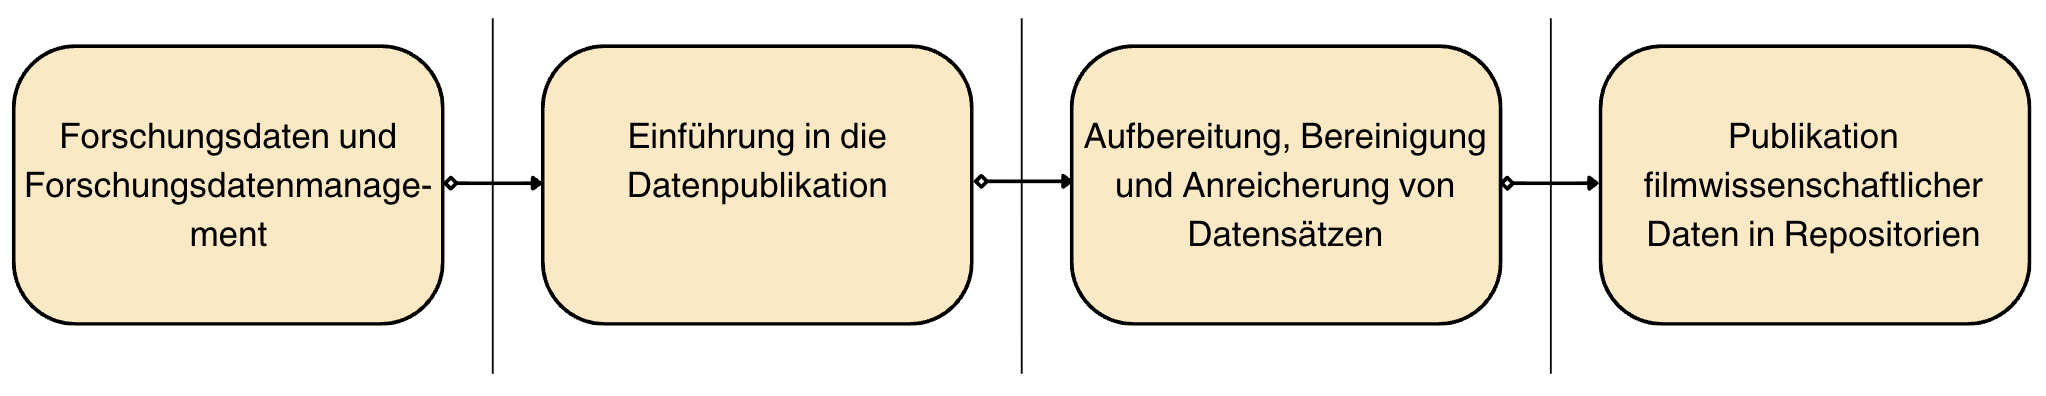
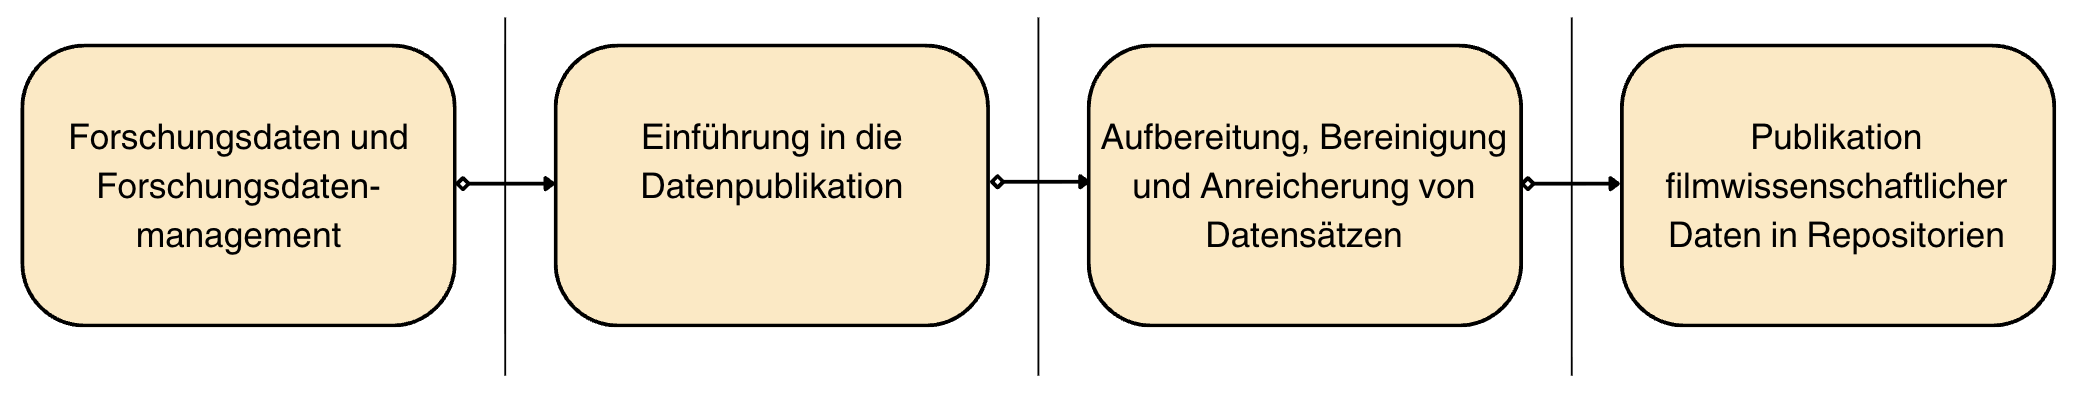
docs: fix typo and exchange image file in intro

diff --git a/intro.md b/intro.md
@@ -37,6 +37,6 @@ Die folgende Übersicht zeigt die vier Schritte bzw. **Lernmodule** unserer OER 
 
 ## Zugangsweg und Bearbeitungszeit
 
-Dieses interaktive Lehrbuch wird im “📘 Book Only Mode” bereitgestellt. Dies bedeutet, dass es im Browser mit eingeschränkten Interaktionsmöglichkeiten bearbeitet werden kann. Für diesen Zugangsweg werden keine Programmierkenntnisse oder Erfahrung mit Jupyter Notebooks benötigt. Einige Lernmodule erfodern ggf. die lokale Installation externer Anwendungen oder das Herunterladen und Verwenden von Dateien.
+Dieses interaktive Lehrbuch wird im “📘 Book Only Mode” bereitgestellt. Dies bedeutet, dass es im Browser mit eingeschränkten Interaktionsmöglichkeiten bearbeitet werden kann. Für diesen Zugangsweg werden keine Programmierkenntnisse oder Erfahrung mit Jupyter Notebooks benötigt. Einige Lernmodule erfordern ggf. die lokale Installation externer Anwendungen oder das Herunterladen und Verwenden von Dateien.
 
 Zu Beginn jeder Lerneinheit wird die geschätzte Bearbeitungszeit angegeben. Dies hilft, Ihre Zeit effektiv zu planen und die Lernmodule strukturiert zu bearbeiten. Für das Self-Assessment am Ende jeder Lerneinheit wird die Bearbeitungsdauer separat angegeben und ist nicht in der geschätzten Dauer des Lernmoduls selbst enthalten.
